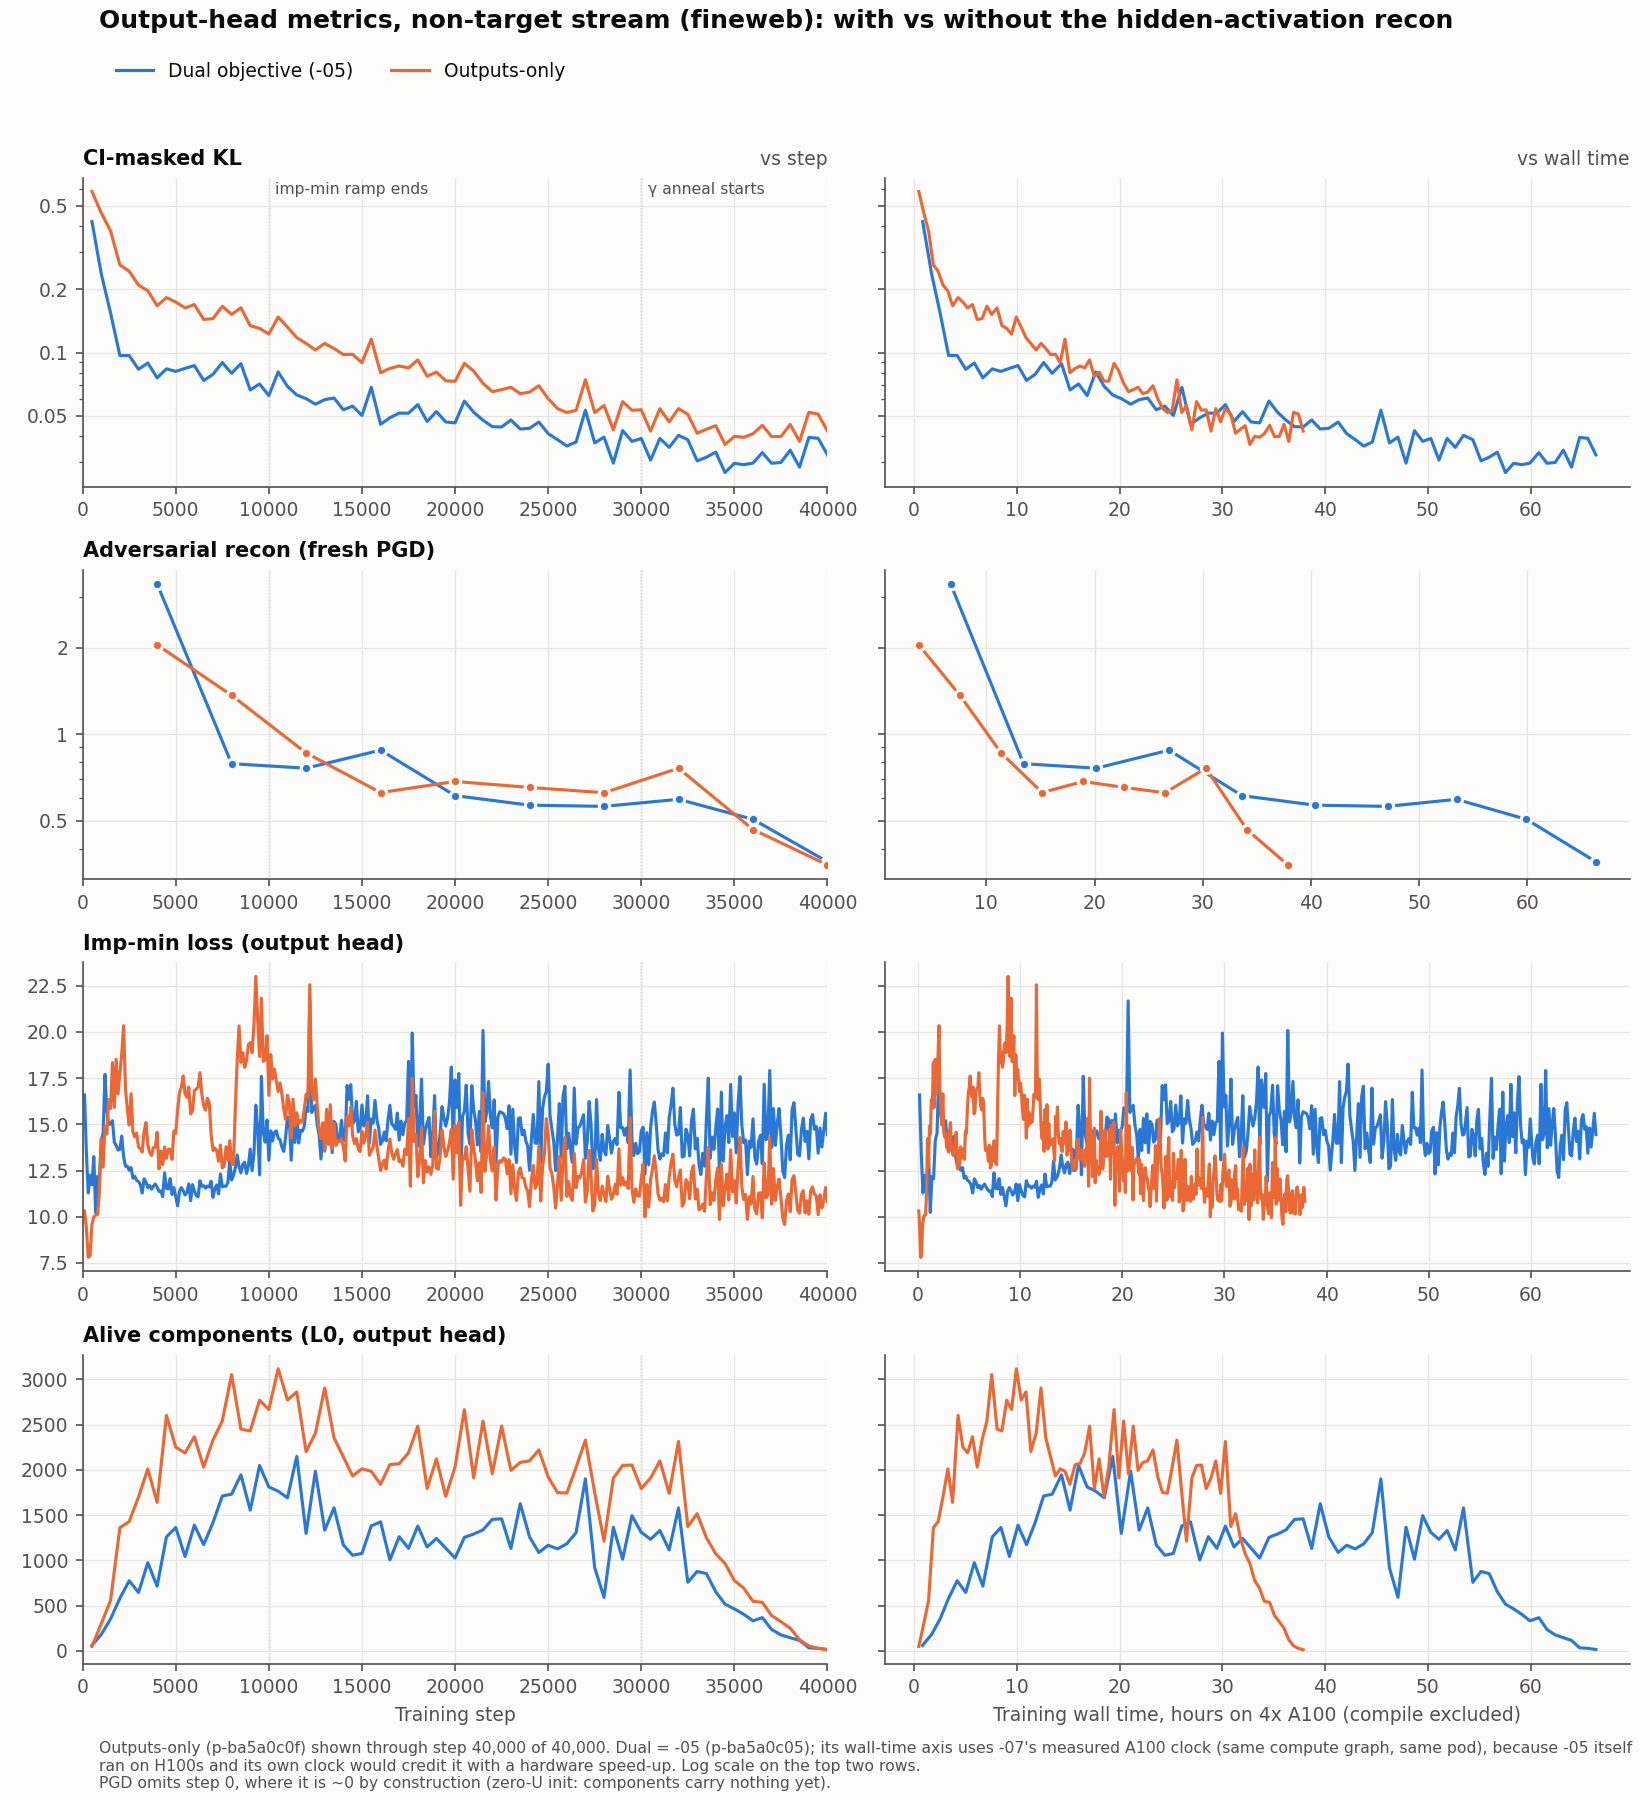
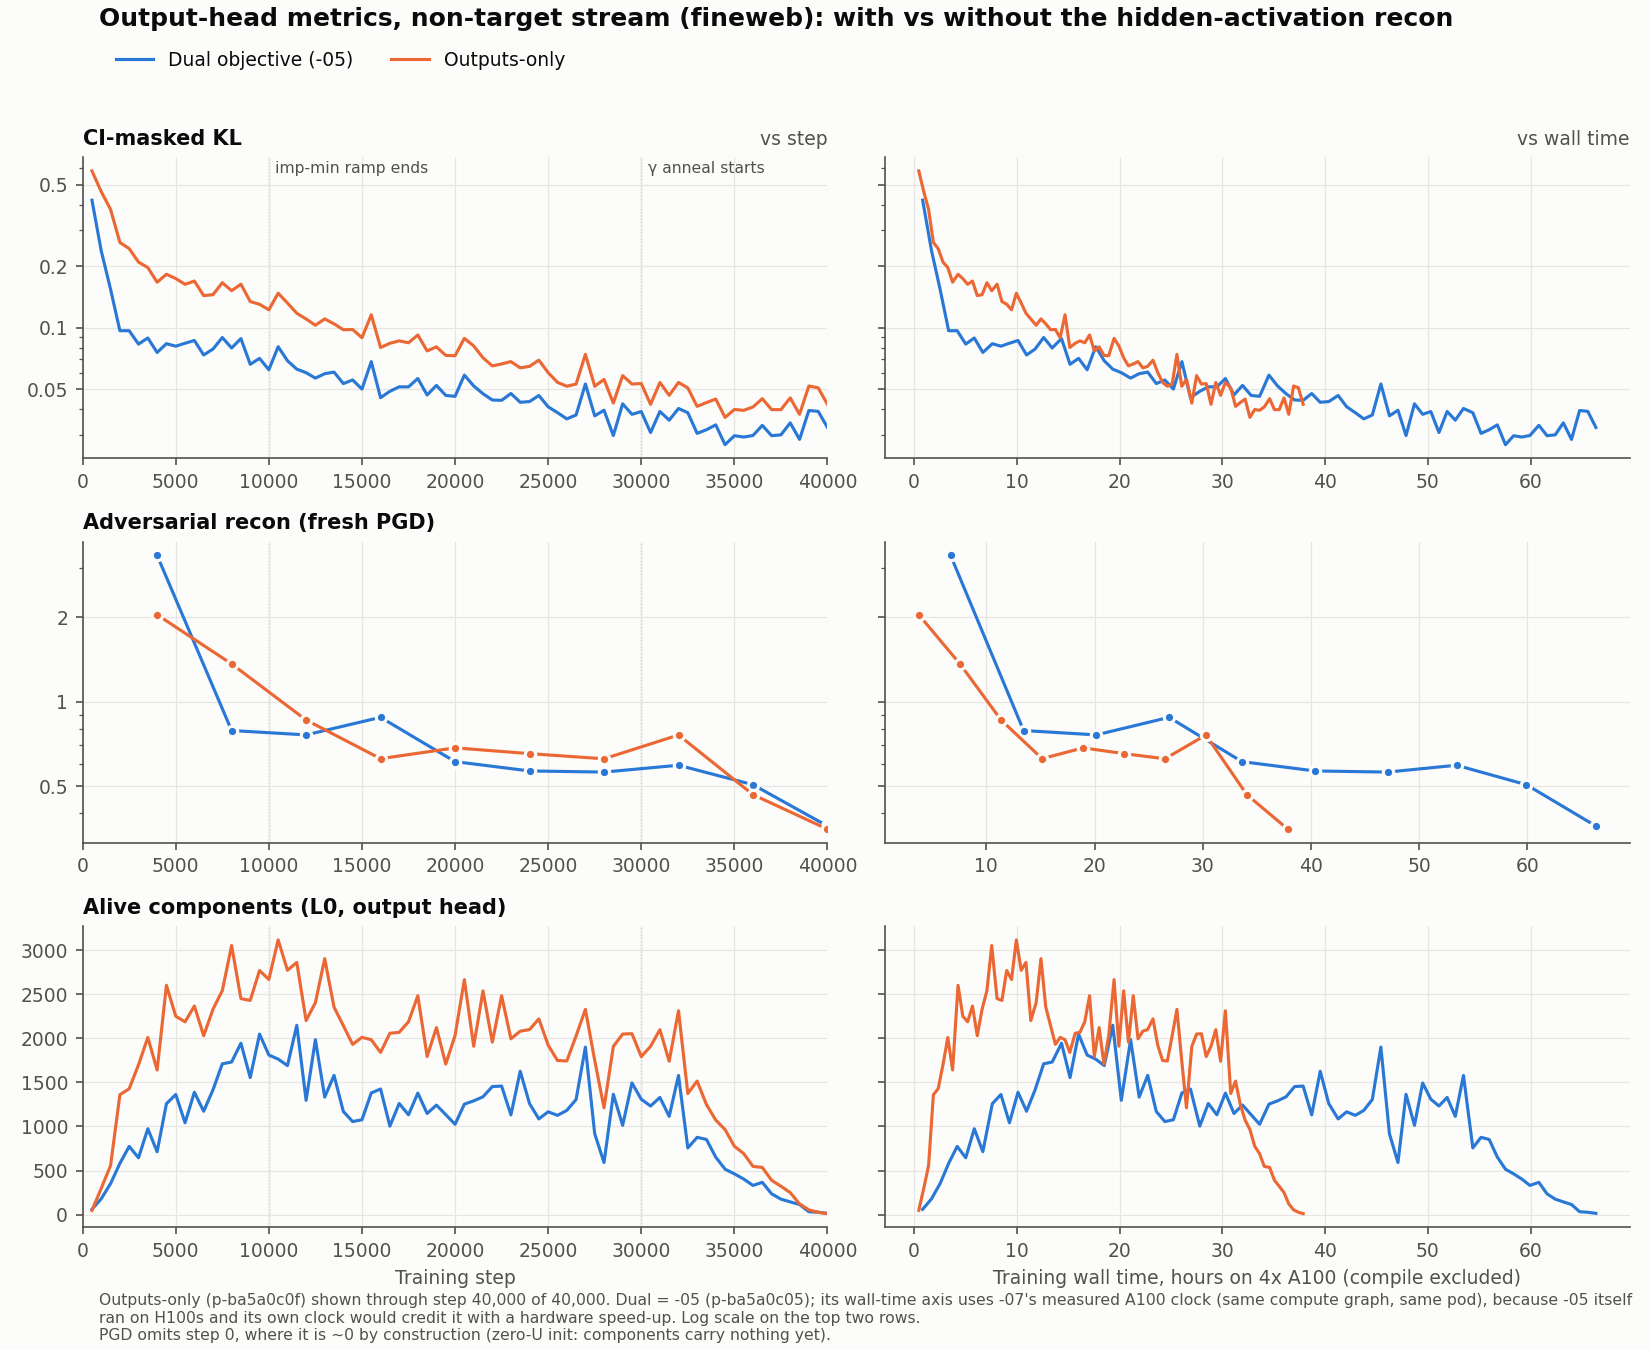
notes(dual_objective): drop the imp-min row from the metric figures
Three rows instead of four -- CI-masked KL, adversarial recon, alive
components (Antoine, 2026-09-23). L0 carries the sparsity story; the imp-min
loss said the same thing in units that only compare within a run.

diff --git a/notes/dual_objective/addsub-all-layers/plot_outputs_only_vs_dual.py b/notes/dual_objective/addsub-all-layers/plot_outputs_only_vs_dual.py
@@ -5,10 +5,10 @@ by wall time on the SAME hardware. One figure per stream:
     python plot_outputs_only_vs_dual.py     # writes plots/outputs_only_vs_dual/
                                             #   outputs_only_vs_dual_{target,nontarget}.png
 
-Four output-head metrics per stream: CI-masked KL (`ce_kl/kl_ci_masked`, the arm
+Three output-head metrics per stream: CI-masked KL (`ce_kl/kl_ci_masked`, the arm
 CIMaskedReconLoss emits in a single-role run), the fresh-PGD adversarial recon eval
-(`loss/PGDReconLoss`), the output head's imp-min loss (`loss/ImportanceMinimalityLoss`) and
-the alive count (`l0/0.0_total`). The TARGET stream is the addsub prompt pool; the
+(`loss/PGDReconLoss`) and the alive count (`l0/0.0_total`). The imp-min loss was dropped
+(Antoine, 2026-09-23); L0 carries the sparsity story here. The TARGET stream is the addsub prompt pool; the
 NON-TARGET stream is fineweb, the same keys under `nontarget_data/`. They get separate
 figures because the two streams tell different stories and share no scale.
 
@@ -52,7 +52,6 @@ STREAMS = [
         [
             ("ce_kl/kl_ci_masked", "CI-masked KL", True),
             (PGD, "Adversarial recon (fresh PGD)", True),
-            ("loss/ImportanceMinimalityLoss", "Imp-min loss (output head)", False),
             ("l0/0.0_total", "Alive components (L0, output head)", False),
         ],
     ),
@@ -63,12 +62,10 @@ STREAMS = [
         [
             ("ce_kl/kl_ci_masked", "CI-masked KL", True),
             (PGD, "Adversarial recon (fresh PGD)", True),
-            ("loss/ImportanceMinimalityLoss", "Imp-min loss (output head)", False),
             ("l0/0.0_total", "Alive components (L0, output head)", False),
         ],
     ),
 ]
-TRAIN_METRICS = {"loss/ImportanceMinimalityLoss"}
 
 
 def load(path: Path) -> dict[int, dict[str, Any]]:
@@ -137,9 +134,9 @@ def render(
     oo_last: int,
     out: Path,
 ) -> None:
-    fig, axes = plt.subplots(len(metrics), 2, figsize=(11, 12), sharey="row")
+    fig, axes = plt.subplots(len(metrics), 2, figsize=(11, 9), sharey="row")
     for row, (metric, title, logy) in enumerate(metrics):
-        key = f"{'train' if metric in TRAIN_METRICS else 'eval'}/{prefix}{metric}"
+        key = f"eval/{prefix}{metric}"
         sparse = metric == PGD
         for col in range(2):
             ax = axes[row, col]
